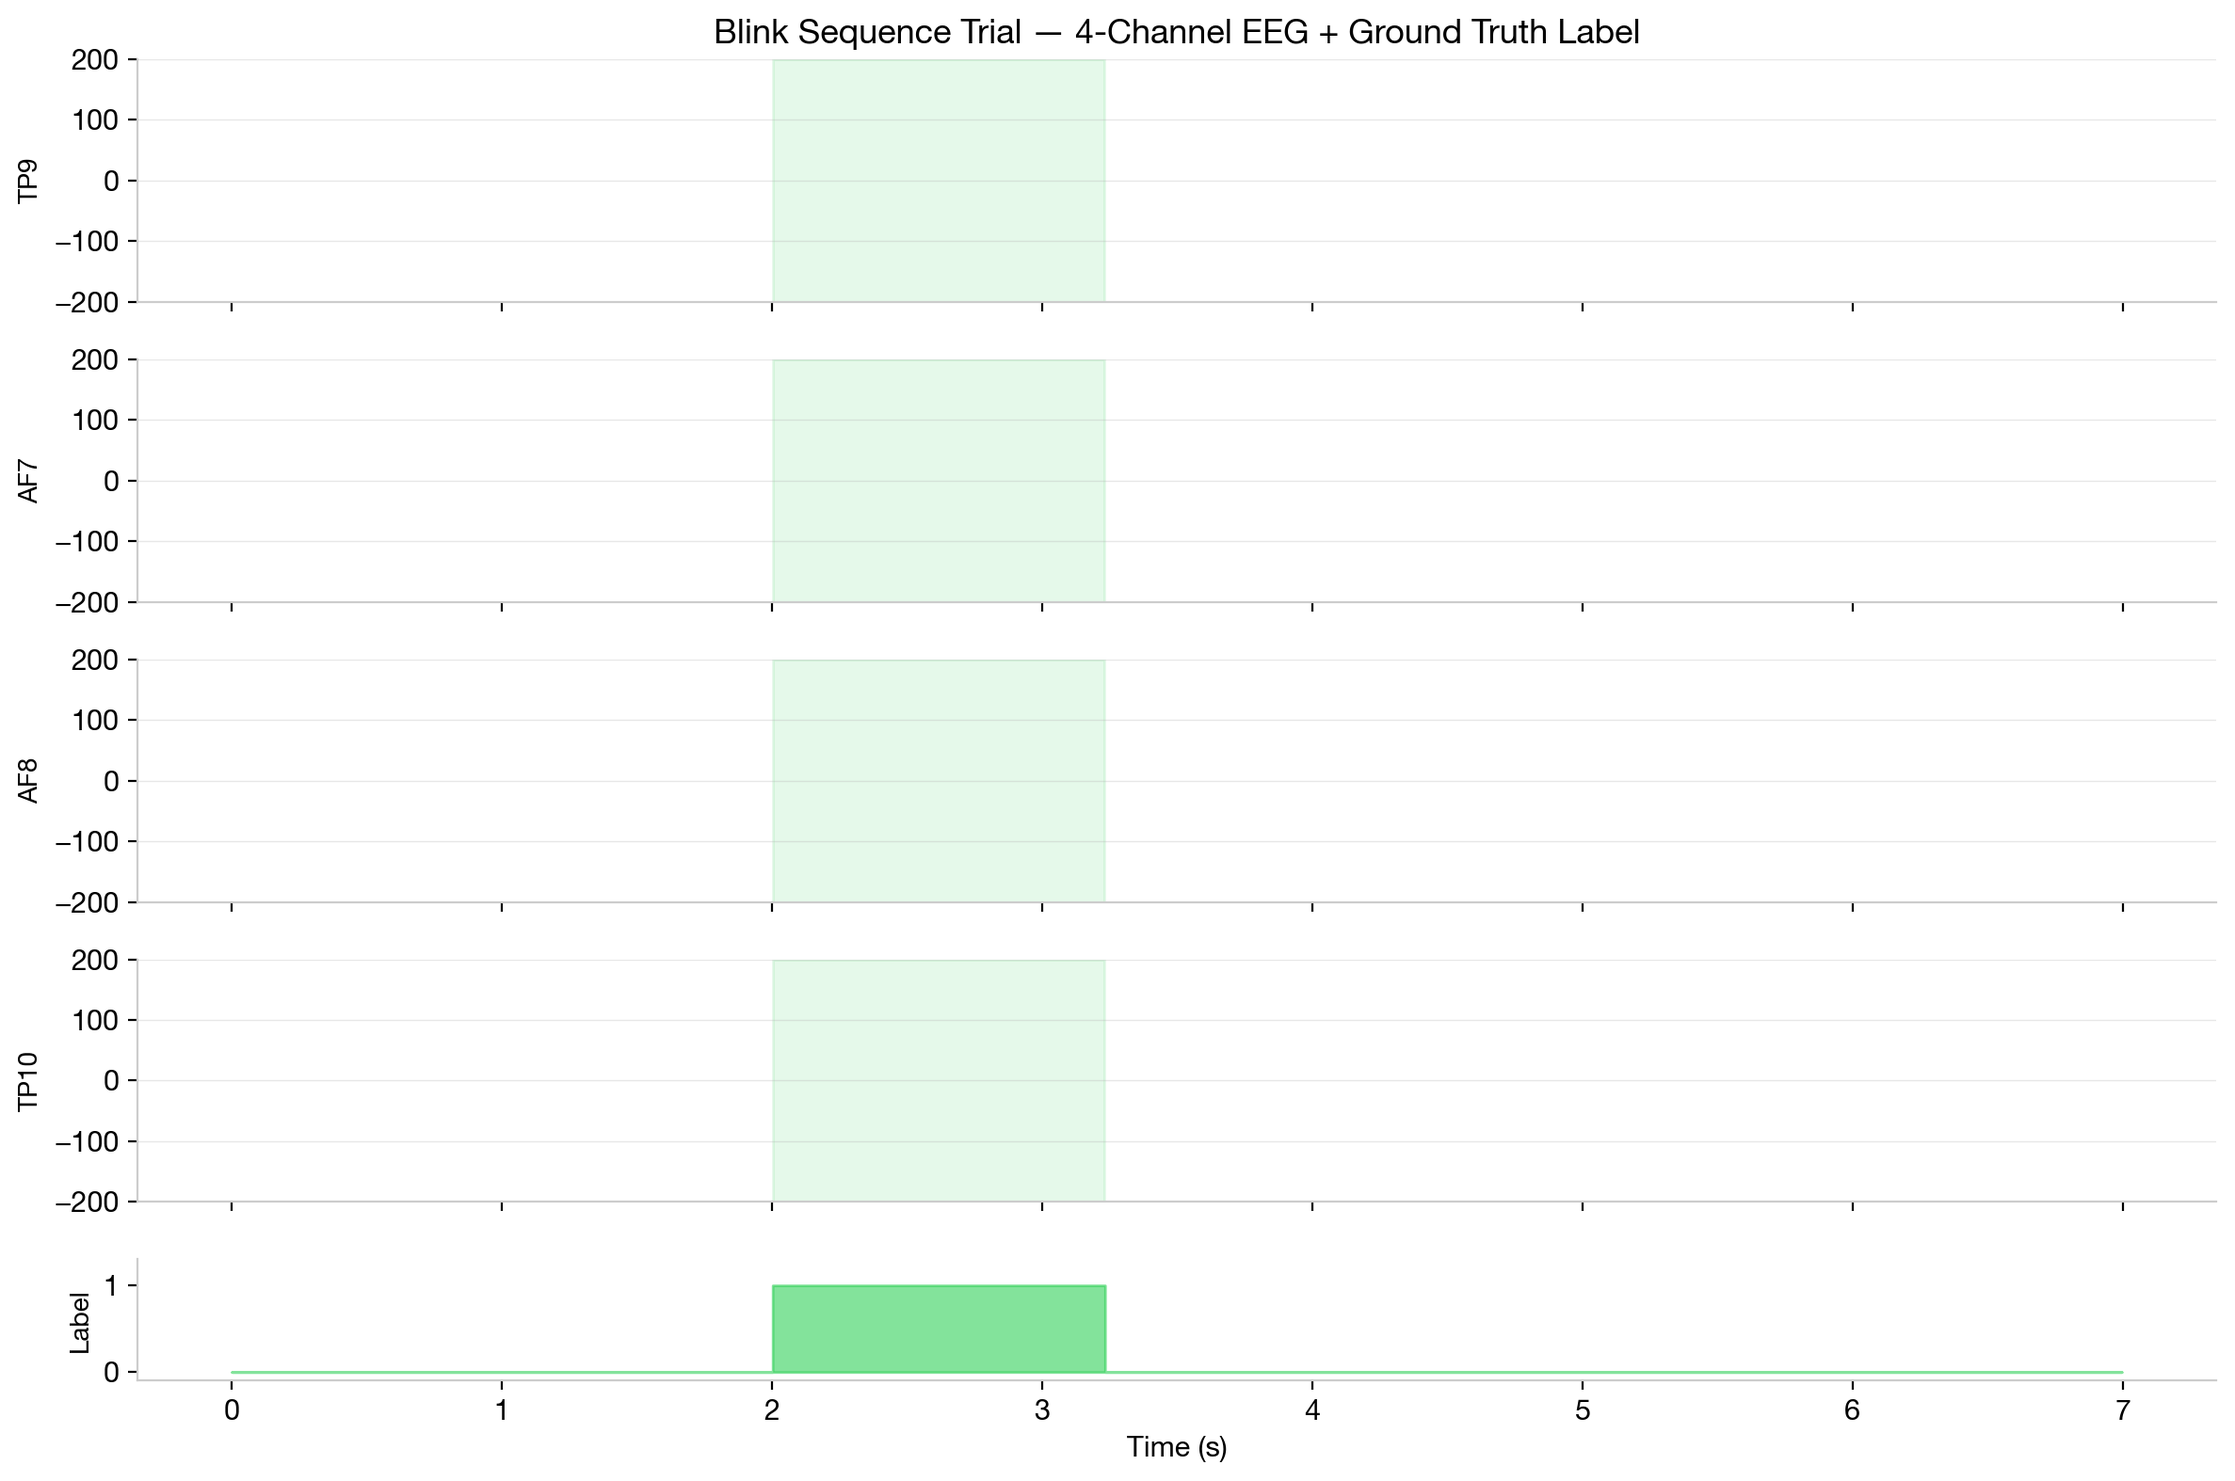
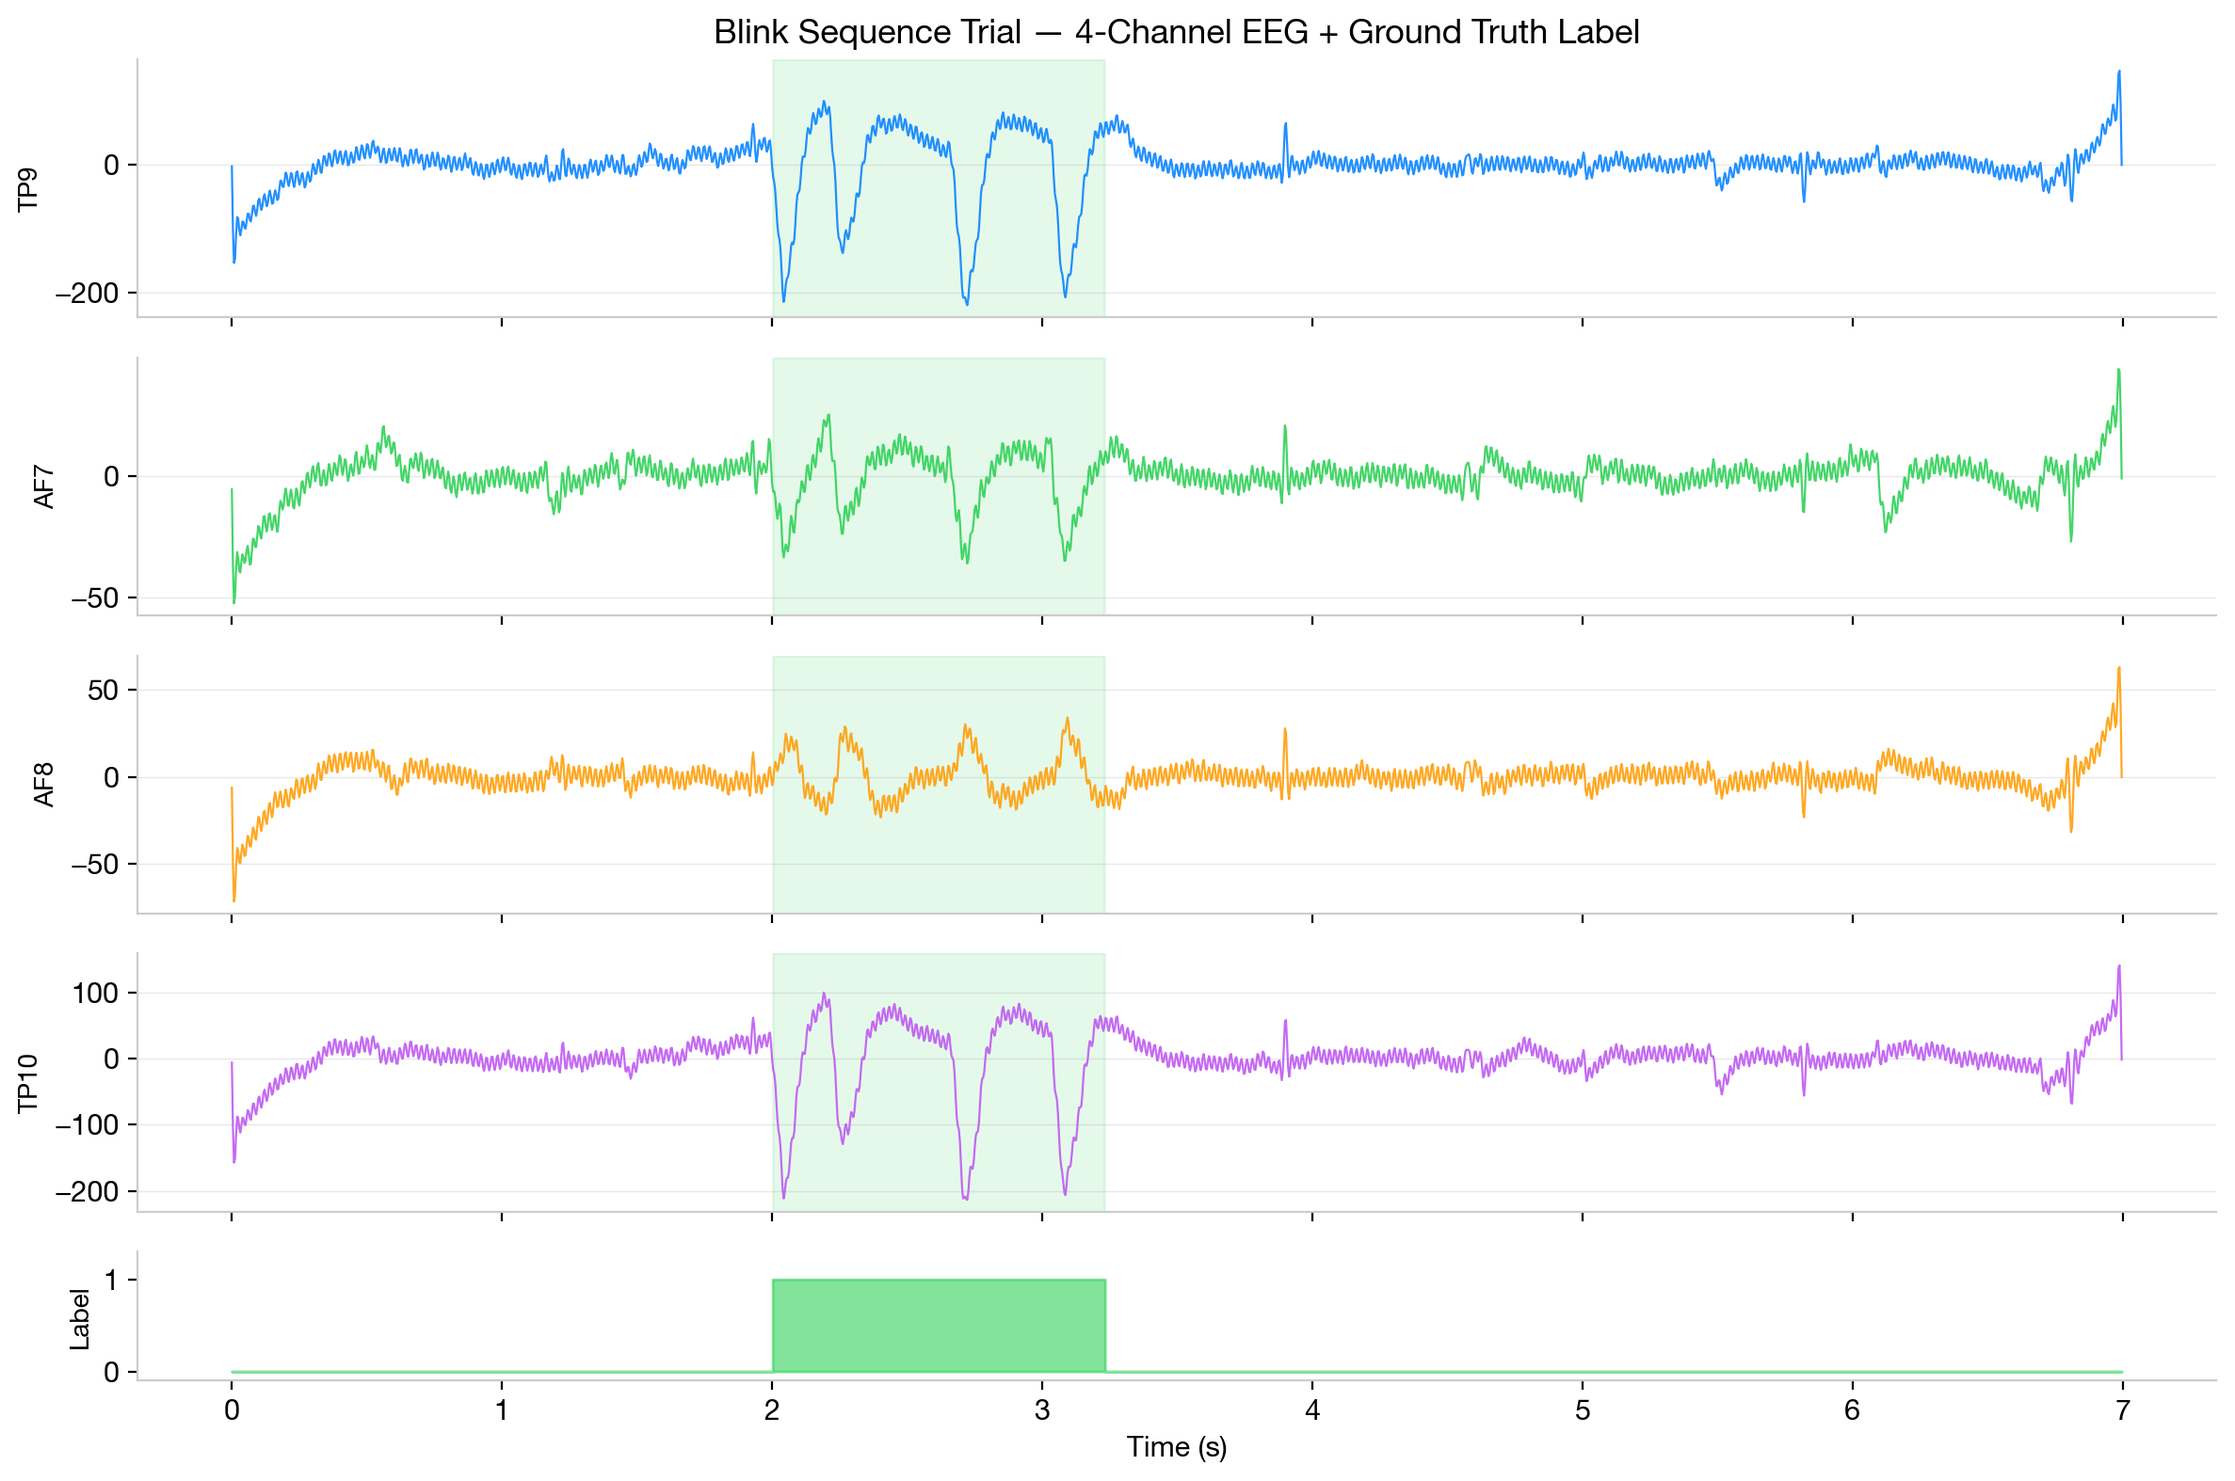
Update blog post: figure captions, demo GIF, and editorial revisions
- Add HTML figure captions to all 5 plots
- Add real-time blink detection demo GIF
- Rephrase intro paragraph on peripheral signals in consumer BCIs
- Remove all em dashes
- Simplify recording section with PsychoPy link
- Add note on latency trade-off and cross-participant generalization
- Update blink trial figure
- Reference amused-py for Muse S Athena BLE protocol

diff --git a/_posts/2026-03-15-brain-controlled-shortcut.md b/_posts/2026-03-15-brain-controlled-shortcut.md
@@ -9,35 +9,37 @@ tags:
   - Python
 ---
 
-I keep losing my VS Code window. I'll be deep in some code, switch to the browser to look something up, and suddenly I have 40 tabs open and no idea where my editor went. Alt-tabbing through everything is annoying. What if I could just... blink my way back?
+I keep losing my VS Code window. My desktop and browser is always a mess with way too many tabs open because I want to quickly look something up, and I am also guilty of having way too many desktops on my macbook open. Alt-tabbing through everything is annoying. What if I could just... blink my way back?
 
-Good thing I have a Muse S headband sitting on my desk.
+Good thing I have a Muse S Athena headband sitting on my desk.
 
-![Pipeline](/images/blog-toybci/pipeline.png)
 
 ## Why blinks show up in EEG
 
-EEG headbands like the Muse S are designed to measure brain activity — but they also pick up a lot of other electrical signals. In clinical and basic neuroscience research, these are called **artifacts** and researchers spend considerable effort removing them. One of the strongest artifact sources is the eye.
+EEG headbands like the Muse S Athena are designed to measure brain activity, but they also pick up a lot of other electrical signals. In clinical and basic neuroscience research, these are actually consideres **artifacts** and researchers, including myself, spend considerable effort removing them. One of the strongest artifact sources are the eyes.
 
-The eye acts as an electrical dipole: the cornea is positively charged relative to the retina. Every time you blink, your eyelid sweeps across this dipole and briefly rotates it, producing a large voltage deflection that propagates across the scalp. Frontal electrodes (like AF7 and AF8 on the Muse) pick up the strongest signal, while temporal electrodes (TP9, TP10) see a weaker version.
+The eyes acts as electrical dipoles: the cornea is positively charged relative to the retina. Every time you blink, your eyelid sweeps across this dipole and briefly rotates it, producing a large voltage deflection that propagates across the scalp. Frontal electrodes (like AF7 and AF8 on the Muse) pick up the strongest signal, while temporal electrodes (TP9, TP10) see a weaker version.
 
-![Blink waveform](/images/blog-toybci/eog_dipole.png)
+<figure>
+  <img src="/images/blog-toybci/eog_dipole.png" alt="Blink artifact waveform">
+  <figcaption>Average blink artifact waveform recorded from the Muse S. The frontal electrode (AF7, blue) picks up a large ~125 uV deflection peaking around 100 ms after blink onset, while the temporal electrode (TP10, orange) shows a much weaker response (~35 uV).</figcaption>
+</figure>
 
-This is normally a nuisance — but for a BCI, it's a feature. Blink artifacts are large (~100-200 uV, compared to ~10-50 uV for brain signals), consistent, and trivially voluntary. The trick is distinguishing *intentional* blink sequences from normal blinking.
+This is normally a nuisance, but for a BCI, it's a feature. In fact, many modern consumer BCI applications rely heavily on minimally processed EEG that is dominated by peripheral signals: blinks, jaw clenches, heartbeat artifacts, eye movements. From a pure engineering perspective, these signals are incredibly useful. Eye tracking paths alone can reconstruct visual scenes surprisingly well. The downside is that this leads to many claims of "decoding brain activity" when the system is really picking up a mix of peripheral signals. For this project, I'm being explicit about it: we're detecting blinks, not reading minds. Blink artifacts are large (~100-200 uV, compared to ~10-50 uV for actual brain signals), consistent, and trivially voluntary. The trick is distinguishing *intentional* blink sequences from normal blinking.
 
 ## The idea
 
-Instead of detecting single blinks (which would trigger constantly), I defined a **blink sequence**: 4 rapid blinks in about 1 second. This is distinctive enough that it basically never happens during normal activity, but easy enough to do on purpose. The system needs to:
+Instead of detecting single blinks (which would trigger constantly), I defined a **blink sequence**: 4 rapid blinks with a distinct temporal sequence in about 1 second. This is distinctive enough that it basically never happens during normal activity, but easy enough to do on purpose. The end-to-end system needs to:
 
-1. Stream EEG from the Muse S in real time
+1. Stream EEG from the Muse S Athena in real time
 2. Detect blink sequences with low latency
 3. Trigger a macOS command (bring VS Code to front)
 
 ## Connecting the Muse S Athena on macOS
 
-This turned out to be the hardest part. The Muse S Athena (the latest hardware revision) uses a different BLE GATT profile than older Muses — it multiplexes all sensor data through fewer characteristics (`273e0013` instead of the traditional `273e0003-0007`). Neither BrainFlow nor muselsl support this.
+This turned out to be the hardest part. The Muse S Athena (the latest hardware revision) uses a different BLE GATT profile than older Muses. It multiplexes all sensor data through fewer characteristics (`273e0013` instead of the traditional `273e0003-0007`). Neither BrainFlow nor muselsl support this.
 
-I ended up using `bleak` (a Python BLE library) directly, with a very specific initialization sequence reverse-engineered from the device's protocol:
+I ended up using `bleak` (a Python BLE library) directly, building on the protocol reverse-engineered by the [amused-py](https://github.com/Amused-EEG/amused-py) project. The initialization sequence looks like this:
 
 ```
 v6 -> s -> h -> p21 -> s -> dc001 -> L1 -> h -> p1034 -> s -> dc001 -> L1
@@ -47,25 +49,23 @@ The EEG data comes as 14-bit packed samples (not 12-bit like older Muses) at 256
 
 ## Recording training data
 
-I wrote a quick PsychoPy experiment that prompts me to blink:
+I wrote a quick prompter in [PsychoPy](https://www.psychopy.org/) (nostalgic, since I programmed my first psychophysics experiment in PsychoPy during my bachelor's) that cues the target blink sequence at jittered intervals. I recorded 6 sessions (~460 seconds of data total, ~90 blink sequences). The EEG streams directly into CSV files alongside event markers.
 
-- Random inter-trial interval (5-15s)
-- Audio countdown: "3... 2... 1..."
-- "NOW!" — do 4 rapid blinks
-- Repeat for 15 trials
-
-Each block takes about 3 minutes. I recorded 6 sessions (~460 seconds of data total, ~90 blink sequences). The EEG streams directly into CSV files alongside event markers.
+The challenge is that the prompt only tells you *approximately* when the blinks happened. The exact onset and offset times of each blink within the sequence are unknown, which is why I needed a post hoc labeling strategy.
 
 ## Labeling
 
-Since I know exactly when the "NOW" prompt appeared, I can search for blink peaks in a window after each prompt. The labeling algorithm:
+Using the prompt timestamps as a rough guide, I search for blink peaks in a window after each cue. The labeling algorithm:
 
 1. Bandpass filter the frontal channels (1-15 Hz) to isolate the blink waveform
 2. Find peaks using the known inter-blink interval (IBI) distribution (~200-500ms)
 3. Score candidate peak combinations by how well they match the expected rhythm
 4. Mark the region from first blink onset to last blink offset as positive
 
-![Example trial](/images/blog-toybci/blink_trial_example.png)
+<figure>
+  <img src="/images/blog-toybci/blink_trial_example.png" alt="Example blink sequence trial">
+  <figcaption>Example trial showing a 4-blink sequence across all four Muse channels (TP9, AF7, AF8, TP10). The green shaded region marks the ground truth label. The bottom row shows the binary label (1 during the blink sequence, 0 elsewhere).</figcaption>
+</figure>
 
 The result is a binary label for every EEG sample: 1 during a blink sequence, 0 everywhere else. About 8-10% of the data is positive.
 
@@ -73,20 +73,26 @@ The result is a binary label for every EEG sample: 1 during a blink sequence, 0 
 
 I wanted something tiny and streaming-capable. The model sees a 5-second buffer of EEG and outputs predictions at 16 Hz (one prediction every 62.5ms):
 
-![Architecture](/images/blog-toybci/architecture.png)
+<figure>
+  <img src="/images/blog-toybci/architecture.png" alt="StreamingBlinkNet architecture">
+  <figcaption>StreamingBlinkNet architecture (68K parameters). Three Conv1D blocks progressively downsample the 4-channel, 5-second EEG input (4x1280) to 64x160 features, followed by a bidirectional GRU and a linear head outputting per-timestep blink probabilities at 16 Hz (1x80).</figcaption>
+</figure>
 
-**StreamingBlinkNet** — 68K parameters:
+**StreamingBlinkNet**, 68K parameters:
 - **3x Conv1D blocks** (kernel sizes 7, 5, 3) with batch norm, ReLU, and max pooling. This downsamples 256 Hz input to 16 Hz features while extracting local temporal patterns.
-- **Bidirectional GRU** (64 hidden units) captures longer temporal context across the full 5-second window. Bidirectional because we're okay with ~2 second latency — the model can look slightly into the "future" relative to the detection window.
+- **Bidirectional GRU** (64 hidden units) captures longer temporal context across the full 5-second window. Bidirectional because we're okay with ~2 second latency, so the model can look slightly into the "future" relative to the detection window.
 - **Linear head** maps to per-timestep blink probability.
 
-The model is intentionally acausal with about 2 seconds of latency. This means it sees the *complete* blink sequence before making a decision, which dramatically reduces false positives. For triggering a keyboard shortcut, 2 seconds of delay is totally acceptable.
+The model is intentionally acausal with about 2 seconds of latency. This is a lot, and you could definitely build something much faster with a causal architecture or a simpler threshold-based detector. But for triggering a keyboard shortcut, 2 seconds is fine, and letting the model see the *complete* blink sequence before making a decision dramatically reduces false positives.
 
 ## Training
 
-With only 6 sessions of data, training takes about 30 seconds on an M1 Mac (MPS backend). I used a session-wise train/val split — one full session held out for validation.
+With only 6 sessions of data, training takes about 30 seconds on an M4 Mac. I used a session-wise train/val split with one full session held out for validation.
 
-![Training curves](/images/blog-toybci/training_curves.png)
+<figure>
+  <img src="/images/blog-toybci/training_curves.png" alt="Training curves">
+  <figcaption>Training curves over 300 epochs. Left: BCE loss for train (blue) and validation (orange) sets. Center: validation F1 score reaching 0.986 (green dot marks best checkpoint). Right: validation AUROC saturating at 0.999.</figcaption>
+</figure>
 
 The model converges fast and hits **F1 = 0.986** on the held-out session with **AUROC = 0.999**. Early stopping kicks in around epoch 25. The class imbalance (~10% positive) is handled with a pos_weight of ~12x in the BCE loss.
 
@@ -99,7 +105,10 @@ Key training details:
 
 Here's the model's predictions on the held-out validation session, plotted against ground truth:
 
-![Predictions](/images/blog-toybci/predictions_overlay.png)
+<figure>
+  <img src="/images/blog-toybci/predictions_overlay.png" alt="Model predictions on held-out session">
+  <figcaption>Model predictions on a 30-second segment from the held-out validation session. Top: raw 4-channel EEG with blink artifacts visible as large deflections. Middle: ground truth binary label. Bottom: model output probability (blue) with detection threshold (red dashed line). The model produces a sharp, well-localized peak with no false positives.</figcaption>
+</figure>
 
 The model cleanly detects blink sequences with sharp probability peaks that closely match the ground truth labels. No false positives in this segment.
 
@@ -114,17 +123,17 @@ The real-time system:
 
 There's a 3-second cooldown between detections to prevent double-triggers.
 
-The whole thing runs as a tiny always-on-top window — just a status dot, a probability bar, and "Idle" / "Detected".
+The whole thing runs as a tiny always-on-top window: just a status dot, a probability bar, and "Idle" / "Detected".
+
+<figure>
+  <img src="/images/blog-toybci/blinkdemo.gif" alt="Real-time blink detection demo">
+  <figcaption>The system in action. Four rapid blinks trigger VS Code to come to the foreground.</figcaption>
+</figure>
 
 ## Takeaways
 
-The entire project — from first BLE packet to working brain-controlled shortcut — took an afternoon. The model is 68K parameters and trains in 30 seconds. The inference runs comfortably at 12 Hz on CPU.
+The entire project, from first BLE packet to working brain-controlled shortcut, took an afternoon. The model is 68K parameters and trains in 30 seconds. The inference runs comfortably at 12 Hz on CPU.
 
-The key insight is that you don't need a sophisticated model when the signal is this strong. Blink artifacts are 10x larger than the brain signals that EEG headbands are designed to measure. A tiny CNN + GRU with 3 minutes of training data gets you to 0.986 F1.
+It's worth noting that this is a personalized model, trained and tested on my own data. One of the hardest problems in deep learning for (neural/bio) signals is cross-participant generalization, which requires much more data and far more sophisticated modeling approaches and augmentation strategies. This is a really simple problem: the signal is strong, the task is binary, and the model only needs to work for one person. That's why a tiny CNN + GRU with 3 minutes of training data gets you to 0.986 F1.
 
-What would make this better:
-- **More commands**: Different blink patterns (2 blinks vs 4, left eye vs right eye) for multiple shortcuts
-- **Adaptive thresholds**: Auto-calibrate to each user's blink amplitude
-- **Online learning**: Fine-tune on false positives/negatives during use
-
-The code is at [github.com/timnaher/toyBCI](https://github.com/timnaher/toyBCI).
+Still, it's incredibly cool to me that you can build something like this in an afternoon. Connecting a consumer EEG headband to a real-time neural network that actually controls your computer is just so much fun to play around with!!
